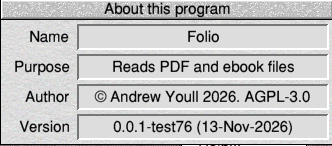
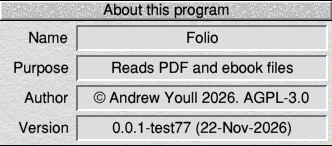
User Guide checked against the code: Back returns from Contents; setting the scale from a line takes the line away; guide and !Help corrections (double-clicking, Note, Arrange pages drops, page lists, settings files, mouse table, version)

diff --git a/docs/guide/index.html b/docs/guide/index.html
@@ -54,7 +54,7 @@ a { color:#1f5fa8; }
 <h1>Folio User Guide</h1>
 <p>Reading, marking up and making PDFs and ebooks on RISC OS</p>
 <p>Start here if you've only ever opened a PDF to read it. If you know PDFs inside out, the Technical Stuff boxes and Chapter 21 are for you.</p>
-<span class="badge">Folio 0.0.1-test76</span>
+<span class="badge">Folio 0.0.1-test77</span>
 </div>
 </header>
 <main>
@@ -123,7 +123,7 @@ a { color:#1f5fa8; }
 <h3 class="chapter" id="ch2"><span>2</span> Installing and starting</h3>
 <h4>What you need</h4>
 <ul>
-<li>RISC OS 5 on an ARMv7 computer or later: a Raspberry Pi 2 or newer, for example.</li>
+<li>RISC OS 5 on an ARMv7 computer or later: a Raspberry Pi 2 or newer, for example. There is also a version for a Risc PC with a StrongARM card (RISC OS 4, 5 or 6), <code>Folio-RiscPC</code>, without the plugins.</li>
 <li>A screen mode with 32 thousand colours or more.</li>
 <li>The SharedUnixLibrary, ARMEABISupport and PThreadTicker modules. PThreadTicker comes in Folio's zip; the others come with RISC OS or from PackMan.</li>
 <li>To look words up: a network connection. Folio loads the URL_Fetcher, AcornHTTP and AcornSSL modules from <code>!System</code> the first time.</li>
@@ -135,7 +135,7 @@ a { color:#1f5fa8; }
 <li>Double-click <code>!Folio</code>. Its icon appears on the icon bar.</li>
 </ol>
 <p>Folio is also in PackMan. Add the source <code>https://adyoull.github.io/riscos-packages/pkg/index</code> and install <b>Folio</b> from there; PackMan then keeps it up to date.</p>
-<p>Once the Filer has seen <code>!Folio</code>, double-clicking a PDF starts Folio and opens it.</p>
+<p>While Folio is running, double-clicking a PDF or an EPUB opens it in Folio. This test version doesn't claim any filetypes, so a double-click doesn't start Folio: start it first, or drag files to its icon bar icon.</p>
 
 <h4>The plugins</h4>
 <p>Three extras are separate downloads, so the main zip stays small. Each comes as a zip with its own <code>!Folio</code> inside: drag that <code>!Folio</code> over yours in the Filer, and the Filer adds the plugin's files to it. Then quit Folio and run it again.</p>
@@ -182,7 +182,7 @@ a { color:#1f5fa8; }
 <tr><td>Find</td><td>Searches the document for words.</td></tr>
 <tr><td>Define</td><td>Looks up the selected word.</td></tr>
 <tr><td>Measure</td><td>Measures lengths and areas on the page (<a href="#ch11">Chapter 11</a>).</td></tr>
-<tr><td>Highlight, Underline, Strike out, Note</td><td>Mark the selected text, or add a note (<a href="#ch9">Chapter 9</a>). They're grey until you select some text in a PDF.</td></tr>
+<tr><td>Highlight, Underline, Strike out, Note</td><td>Mark the selected text, or add a note (<a href="#ch9">Chapter 9</a>). Highlight, Underline and Strike out are grey until you select some text in a PDF. Note works in any PDF: with nothing selected, the note goes at the top of the page.</td></tr>
 <tr><td>Read aloud</td><td>With the Speech plugin only: reads the document to you.</td></tr>
 </table>
 <p>Rest the pointer on a button for a moment to see its name. If the window is too narrow for every button, arrows appear at the toolbar's right-hand end: click them, or turn the mouse wheel over the toolbar, to see the rest. <b>View &rarr; Toolbar</b> hides the toolbar or shows it again.</p>
@@ -220,7 +220,7 @@ a { color:#1f5fa8; }
 <p>If the document has no contents list, the window says so.</p>
 
 <h4>Links</h4>
-<p>Links have a blue line under them. Click one to follow it. A link to another part of the document goes there; a web or email link opens in your web browser or mail program, after Folio has asked you (<a href="#ch17">Chapter 17</a>). To come back after following a link, choose <b>Navigate &rarr; Back</b> or press <kbd>Ctrl</kbd>+<kbd>&larr;</kbd>. Back goes back link after link, and also returns from Go to page and from Contents.</p>
+<p>Links have a blue line under them. Click one to follow it. A link to another part of the document goes there; a web or email link opens in your web browser or mail program, after Folio has asked you (<a href="#ch17">Chapter 17</a>). To come back after following a link, choose <b>Navigate &rarr; Back</b> or press <kbd>Ctrl</kbd>+<kbd>&larr;</kbd>. Back goes back link after link, and also returns from Go to page, from Contents and from a click in the Annotations window.</p>
 <div class="box tip"><b class="label">TIP</b>If you'd rather see links as the document draws them, untick <b>Underline links</b> in Choices.</div>
 
 <h4>Find</h4>
@@ -262,7 +262,7 @@ a { color:#1f5fa8; }
 <div class="box rem"><b class="label">REMEMBER</b><b>Remove from bookshelf</b> (or <kbd>Delete</kbd>) only takes a book off the shelf. The file isn't touched. A book whose file can't be found any more is shown grey; <b>Remove missing books</b> takes them all off.</div>
 <h4>Ebooks</h4>
 <p>An EPUB, FB2 or MOBI book has no pages of its own: the text flows to fit whatever reads it. Folio lays it out on pages 400 by 600 points (about the size of a paperback) with 11-point text. The first time you open a book, Folio counts its pages in the background, so the page count may grow for a moment; after that it remembers.</p>
-<div class="box warn"><b class="label">WARNING</b>RISC OS may not know the EPUB filetype, and show an ebook as a Data file. Then double-clicking it won't start Folio. Drag it to Folio's icon bar icon or to the bookshelf instead, or give it a name ending <code>/epub</code>.</div>
+<div class="box warn"><b class="label">WARNING</b>RISC OS may not know the EPUB filetype, and show an ebook as a Data file. Then double-clicking it won't open it. Drag it to Folio's icon bar icon or to the bookshelf instead.</div>
 <div class="box tech"><b class="label">TECHNICAL STUFF</b>The bookshelf is kept in <code>&lt;Choices$Write&gt;.Folio.Shelf</code>, its covers in <code>&lt;Choices$Write&gt;.Folio.Covers</code>, and ebook page counts in <code>&lt;Choices$Write&gt;.Folio.Layouts</code>.</div>
 
 <h3 class="chapter" id="ch7"><span>7</span> Selecting, copying and looking words up</h3>
@@ -345,10 +345,10 @@ a { color:#1f5fa8; }
 <tr><td>Paper</td><td>The page as printed, at its paper size.</td></tr>
 <tr><td>Drawing's own</td><td>A plan or drawing whose PDF gives it a scale of its own (1 inch = 10 feet, say). Folio starts with this one when there is one, in the drawing's units.</td></tr>
 <tr><td>1:</td><td>A ratio of the paper size. Type it (<code>1250</code> for 1:1250) and press <kbd>Return</kbd>. Use it for a map or plan printed at a known scale, as long as the PDF's page is the size it was drawn for: a plan "1:1250 at A3" saved on an A3 page.</td></tr>
-<tr><td>Last line is</td><td>Something of known length. Draw a line over a scale bar (or a wall whose length you know), type its real length and press <kbd>Return</kbd> or click <b>Set</b>. Folio works the scale out from that, so it works whatever size the page is, and for a map printed to PDF with no scale in it.</td></tr>
+<tr><td>Last line is</td><td>Something of known length. Draw a line over a scale bar (or a wall whose length you know), type its real length, in the units shown beside the box, and press <kbd>Return</kbd> or click <b>Set</b>. Folio works the scale out from that, takes the line away, so it works whatever size the page is, and for a map printed to PDF with no scale in it.</td></tr>
 </table>
 <p><b>Units</b> chooses mm, cm, m, km, inches, feet or points. Choosing a scale other than Paper switches mm, cm and points to metres.</p>
-<div class="box tip"><b class="label">TIP</b>For a map from RiscOSM (or any map printed to PDF), draw a line along its scale bar, type the bar's length, press <kbd>Return</kbd>, then measure.</div>
+<div class="box tip"><b class="label">TIP</b>For a map from RiscOSM (or any map printed to PDF), choose <b>m</b> under Units, draw a line along its scale bar, choose <b>Last line is</b>, type the bar's length in metres and press <kbd>Return</kbd>. Then measure.</div>
 <h4>Keeping a measurement</h4>
 <p><b>Add to page</b> keeps the measurement on the page, in red: a line with its length written along it, or lines and an area with their figures beside them. <kbd>Ctrl</kbd>+<kbd>Z</kbd> takes it off again. <b>Clear</b> starts again. Close the window to stop measuring.</p>
 
@@ -389,12 +389,12 @@ a { color:#1f5fa8; }
 <ul>
 <li><b>Select</b> on a page chooses it; <b>Adjust</b> adds a page or takes it away; <kbd>Shift</kbd> with <b>Select</b> chooses every page from the last one clicked; <kbd>Ctrl</kbd>+<kbd>A</kbd> chooses them all.</li>
 <li>Drag over the space between pages to choose every page the box touches (with <b>Adjust</b>, they're added).</li>
-<li>Drag the chosen pages and let go where they should go: in front of the page you let go over, or after the last one.</li>
+<li>Drag the chosen pages and let go in the gap where they should go: over the left half of a page puts them in front of it, over the right half after it, and past the last page at the end.</li>
 <li><kbd>Delete</kbd> deletes the chosen pages. <b>Delete pages...</b> and <b>Move pages...</b> on the Pages menu start with the chosen pages typed in.</li>
-<li>Double-click a page (or press <kbd>Return</kbd>) to go back to reading at that page; <kbd>Escape</kbd> clears the choice, and again goes back to reading. Choosing <b>Arrange pages</b> again does too.</li>
+<li>Double-click a page to go back to reading at that page, or press <kbd>Return</kbd> to read from the first chosen page; <kbd>Escape</kbd> clears the choice, and again goes back to reading. Choosing <b>Arrange pages</b> again does too.</li>
 </ul>
 <h4>Typing pages</h4>
-<p>Wherever Folio asks which pages, you can type one page (<code>3</code>), a range (<code>1-10</code>), several (<code>1-3, 20, 45-50</code>), from a page to the end (<code>20-</code>), or <code>all</code>.</p>
+<p>In the Delete, Move, Overlay, Save pages and Save page pictures boxes, you can type one page (<code>3</code>), a range (<code>1-10</code>), several (<code>1-3, 20, 45-50</code>), from a page to the end (<code>20-</code>), from the start (<code>-5</code>), or <code>all</code>.</p>
 <p>Each change is one step: <kbd>Ctrl</kbd>+<kbd>Z</kbd> puts it back, and <kbd>F3</kbd> keeps it. Recognised text (<a href="#ch8">Chapter 8</a>) goes with its page when it moves.</p>
 <div class="box rem"><b class="label">REMEMBER</b>A PDF whose author doesn't allow its pages to be changed says so, and offers to lift that with the owner password. A signed PDF's pages can't be changed at all, since that would break the signature.</div>
 
@@ -445,7 +445,7 @@ a { color:#1f5fa8; }
 <table>
 <tr><th>Item</th><th>Makes</th></tr>
 <tr><td>Save pages as PDF...</td><td>A new PDF of some of the pages. Type which, click <b>Save</b>, and drag the icon to a directory. A PDF's pages are copied just as they are. Other documents' pages (CBZ, XPS, ebooks) are drawn into PDF pages; a CBZ of JPEGs becomes a PDF of the same JPEGs.</td></tr>
-<tr><td>Save page pictures...</td><td>A directory of pictures, Page001, Page002 and so on. A page that is one picture (a scanned page) gives that picture just as the PDF stores it: a JPEG comes out as the same JPEG, byte for byte. Any other page is drawn as a PNG, at 150 dpi unless you change it.</td></tr>
+<tr><td>Save page pictures...</td><td>A directory of pictures, Page001, Page002 and so on. A page that is one picture (a scanned page) gives that picture just as the PDF stores it: a JPEG comes out as the same JPEG, byte for byte, and any other picture as a PNG of it. Other pages are drawn as PNGs, at 150 dpi unless you change it.</td></tr>
 <tr><td>Save pages as text...</td><td>A text file of the pages' text, a paragraph to a line (Edit and StrongED wrap it to the window), with a blank line between paragraphs. Words split at a line's end are joined again.</td></tr>
 <tr><td>Export page as Draw...</td><td>The page you're reading as a Draw file: drag its icon to a directory, or straight into Draw. Lines and shapes become Draw paths, text becomes outlines (so it looks the same without the document's fonts), and each picture becomes a sprite of its own.</td></tr>
 </table>
@@ -464,7 +464,7 @@ a { color:#1f5fa8; }
 <figure><img src="images/docinfo.png" alt="Document info"><figcaption>Document info for a walking guide.</figcaption></figure>
 <div class="box tech"><b class="label">TECHNICAL STUFF</b>A font that isn't embedded is drawn with the nearest font the computer has, so the document may look a little different from how its author saw it. For scripts Folio has no font of its own for, it uses the computer's fonts through fontconfig: PackMan's FontConfig setup if it's installed, else the fonts in <code>!Folio.Fonts</code>.</div>
 <h4>Warnings about what a PDF can do</h4>
-<p>A PDF can contain JavaScript, attached files, links that would start a program, and ways to send a form somewhere. When you open one that does, Folio says so, and doesn't do any of those things.</p>
+<p>A PDF can contain JavaScript, attached files, links that would start a program, and ways to send a form somewhere. When you open one that does, Folio says so, and doesn't do any of those things (unless you let forms' JavaScript run in Choices).</p>
 <figure><img src="images/security.png" alt="The Security warning"><figcaption>Folio's warning on opening a form with JavaScript, an attachment, a program link and a way to send it.</figcaption></figure>
 <p>Folio also asks before following a link out of a document (to a web page, an email address or another file), showing where it goes. Links to other programs are never followed.</p>
 <h4>A PDF's restrictions</h4>
@@ -542,7 +542,7 @@ a { color:#1f5fa8; }
 Filer_Run SDFS::Disc.$.Docs.Manual/pdf</pre>
 <code>Run &lt;Folio$Dir&gt;.!Run -page 12 &lt;file&gt;</code> does the same.</li>
 <li><b>The log.</b> <code>&lt;Wimp$ScrapDir&gt;.FolioLog</code> records what Folio did. It starts afresh each time Folio runs, so copy it before running Folio again if you want to report a problem.</li>
-<li><b>Your settings</b> are in <code>&lt;Choices$Write&gt;.Folio</code>: Choices, the bookshelf (Shelf, Covers), reading places (Places), ebook page counts (Layouts), dictionary entries (Dict), and your handwritten signature.</li>
+<li><b>Your settings</b> are in <code>&lt;Choices$Write&gt;.Folio</code>: Choices, the bookshelf (Shelf, Covers), reading places (Places), ebook page counts (Layouts), dictionary entries (Dict), your handwritten signature (Signature), the scanner you last used (Scanner), and recognised text (with the OCR plugin).</li>
 <li><b>Trusting your own certificates.</b> Put them in <code>&lt;Choices$Write&gt;.Folio.Trusted</code> as PEM (<a href="#ch19">Chapter 19</a>).</li>
 <li><b>Incremental saving.</b> Folio adds changes to the end of a PDF wherever it can, as Acrobat does, so signatures stay good. Setting or removing a password writes the whole file again.</li>
 <li><b>Lossless pictures.</b> JPEGs go into new PDFs, and come out of Save page pictures, byte for byte: nothing is compressed again.</li>
@@ -556,9 +556,9 @@ Filer_Run SDFS::Disc.$.Docs.Manual/pdf</pre>
 <table>
 <tr><th>Problem</th><th>What to do</th></tr>
 <tr><td>Folio says it needs a 32 thousand or more colour screen mode.</td><td>Folio needs a 32 thousand or more colour screen mode. Change it in Display Manager.</td></tr>
-<tr><td>Double-clicking an EPUB does nothing.</td><td>RISC OS shows it as a Data file. Drag it to Folio's icon, or rename it to end <code>/epub</code> (<a href="#ch6">Chapter 6</a>).</td></tr>
+<tr><td>Double-clicking a PDF or an EPUB does nothing.</td><td>A double-click only opens a document while Folio is running: start Folio first. If RISC OS shows an ebook as a Data file, drag it to Folio's icon or to the bookshelf (<a href="#ch6">Chapter 6</a>).</td></tr>
 <tr><td>Find doesn't find text I can see.</td><td>The page is probably a scan: a picture of text. Use the OCR plugin (<a href="#ch8">Chapter 8</a>).</td></tr>
-<tr><td>Highlight and Note are grey.</td><td>Select some text first. Ebooks can't be marked yet; signed or restricted PDFs may not allow notes.</td></tr>
+<tr><td>Highlight is grey.</td><td>Select some text first (Highlight, Underline and Strike out need a selection; Note doesn't). Only PDFs can be marked: ebooks, comics and XPS files can't. In a signed or restricted PDF, Folio says why when a change isn't allowed.</td></tr>
 <tr><td>Print or Copy says the author doesn't allow it.</td><td>Type the owner password if you have it, or see Chapter 21, number 9.</td></tr>
 <tr><td>A web link does nothing.</td><td>Folio asks before following it; check the question box isn't behind a window. You need a web browser that has been seen by the Filer.</td></tr>
 <tr><td>User guide says there's no web browser.</td><td>Run NetSurf (or another browser) once, so RISC OS knows it, then try again. Or open <code>!Folio.Guide.index/html</code> yourself.</td></tr>
@@ -598,10 +598,10 @@ Filer_Run SDFS::Disc.$.Docs.Manual/pdf</pre>
 <tr><td>Icon bar icon</td><td>Open the bookshelf</td><td>&ndash;</td></tr>
 <tr><td>Text on the page</td><td>Drag to select; double-click a word</td><td>Extend the selection</td></tr>
 <tr><td>Link</td><td>Follow it</td><td>&ndash;</td></tr>
-<tr><td>Annotation</td><td>Select it; a note opens</td><td>&ndash;</td></tr>
+<tr><td>Annotation</td><td>Select it (a note opens its text)</td><td>&ndash;</td></tr>
 <tr><td>Form field</td><td>Fill it in</td><td>&ndash;</td></tr>
 <tr><td>Signature</td><td>Check it (sign it, if empty)</td><td>&ndash;</td></tr>
-<tr><td>Thumbnail</td><td>Go to that page</td><td>&ndash;</td></tr>
+<tr><td>Thumbnail</td><td>Go to that page (Arrange pages: choose it, and only it)</td><td>Go to that page (Arrange pages: choose it too, or not)</td></tr>
 <tr><td>Page, while drawing</td><td>Draw</td><td>Take the last stroke off</td></tr>
 <tr><td>Page, while measuring</td><td>Add a point</td><td>Take the last point off</td></tr>
 <tr><td>Window's close icon</td><td>Close</td><td>Close and open the document's directory</td></tr>

diff --git a/wimp/measure.c b/wimp/measure.c
@@ -332,7 +332,7 @@ void measure_changed(docwin *w)
 	case S_LINE:
 		if (ms.line_mm > 0) {
 			mm_per_pt = ms.line_mm;
-			snprintf(ms.scale_text, sizeof ms.scale_text, "From the line: about 1:%.0f of the paper size",
+			snprintf(ms.scale_text, sizeof ms.scale_text, "From the line: about 1:%.0f",
 				ms.line_mm / paper);
 		} else
 			snprintf(ms.scale_text, sizeof ms.scale_text,
@@ -417,6 +417,8 @@ static void set_scale(int line)
 			 * change to metres.) */
 			ms.line_mm = atof(ms.line) * unit_mm[ms.units - U_MM] / d;
 			metres_for(S_LINE);
+			/* The line over the scale bar isn't part of what's measured. */
+			docwin_measure_clear(ms.w);
 			ms.scale = S_LINE;
 			app_log("measure: scale from a line: %g mm a point", ms.line_mm);
 		}

diff --git a/wimp/contents.c b/wimp/contents.c
@@ -297,7 +297,7 @@ void contents_click(int *b)
 	}
 	if (page >= 0) {
 		app_log("contents: '%s' -> page %d", ct.rows[i].title, page + 1);
-		docwin_go_to(ct.w, page);
+		docwin_jump(ct.w, page);   /* Back returns from it */
 	}
 	/* Adjust keeps the window; Select too (it's a list to come back to). */
 }
